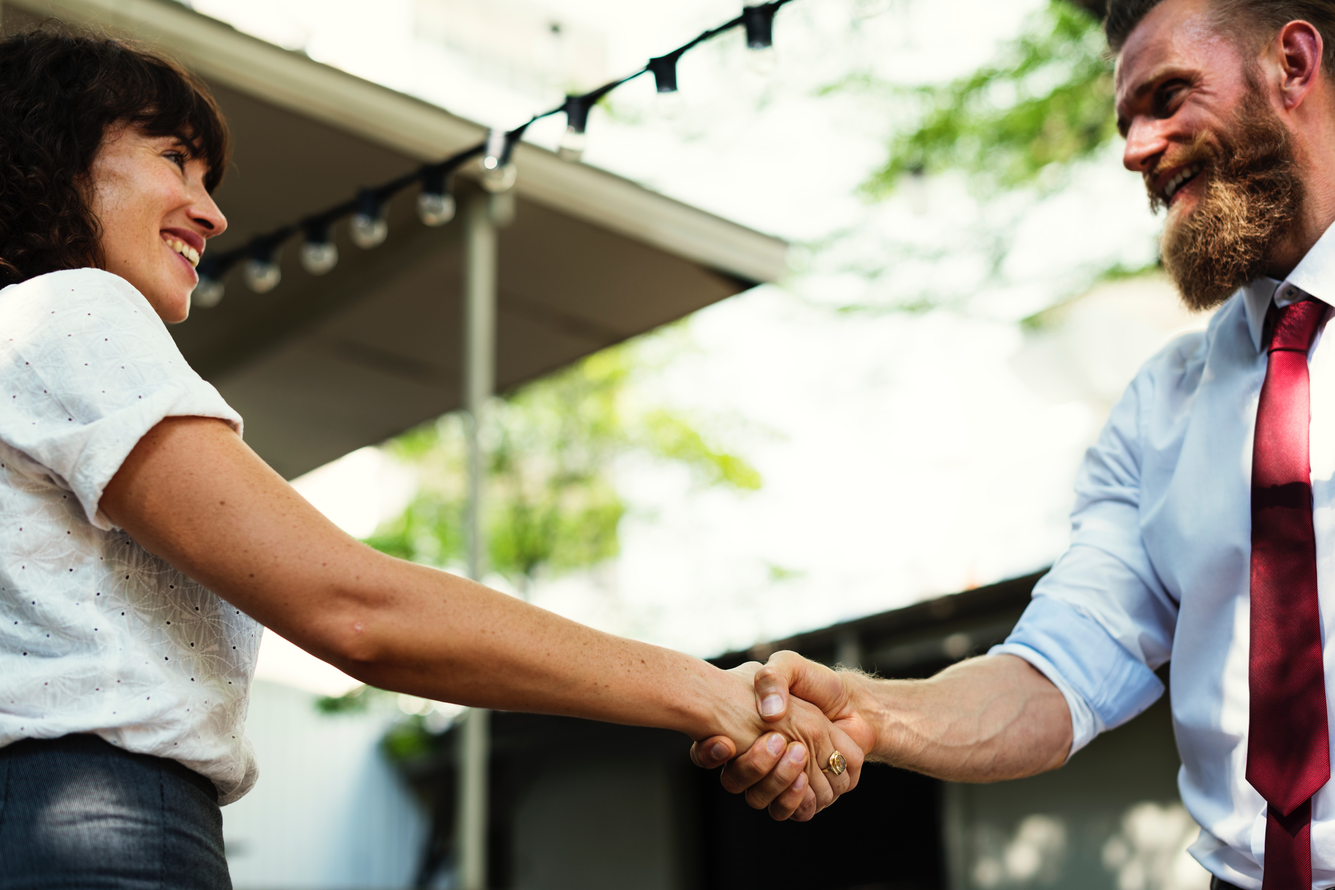
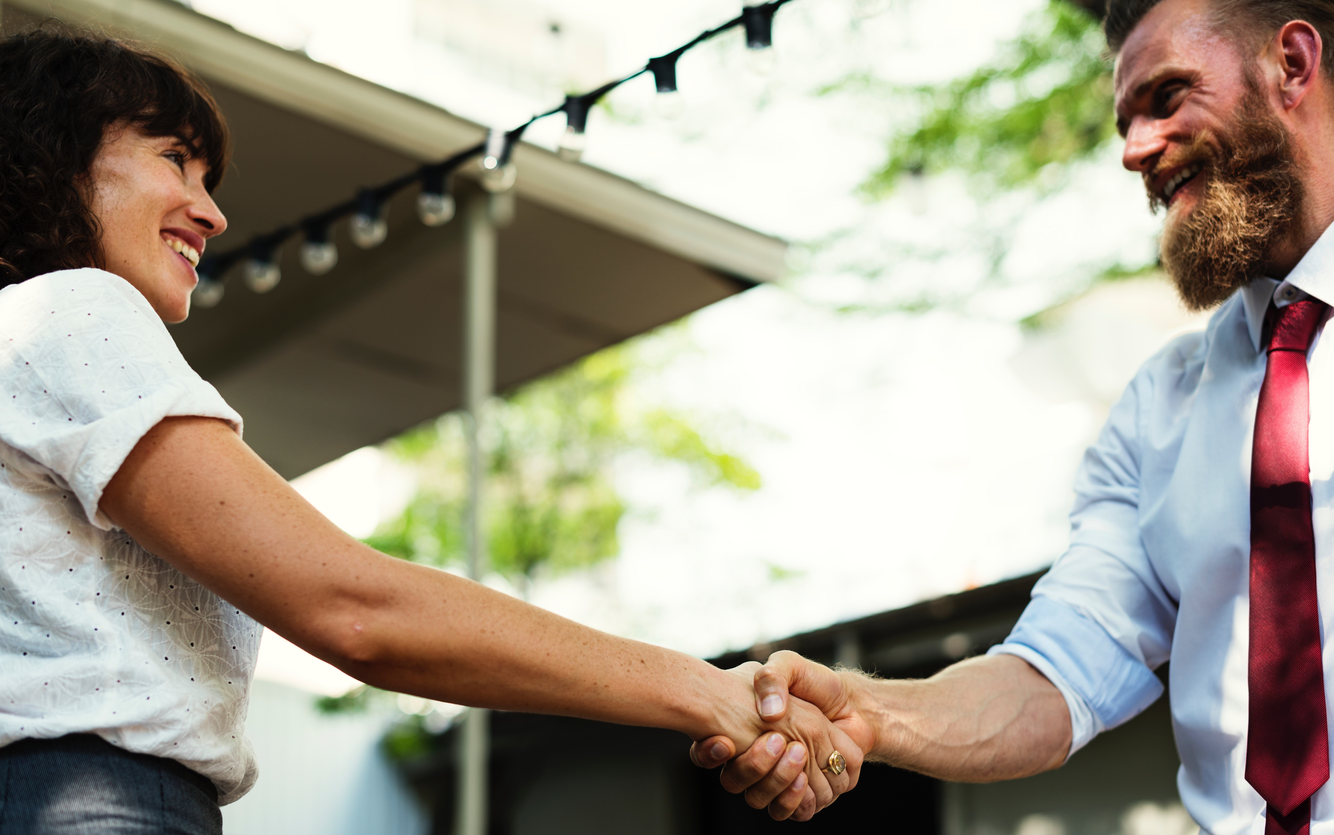
Images

diff --git a/index.html b/index.html
@@ -83,7 +83,7 @@
     </ol>
     <div class="carousel-inner">
       <div class="carousel-item active">
-        <img class="d-block w-100 img-fluid" src="assets/c1.jpg" style="min-width: 100%;">
+        <img class="d-block w-100 img-fluid" src="assets/c11.jpg" style="min-width: 100%;object-fit: contain;">
         <div class="container">
           <div class="carousel-caption text-left p-4" style="background-color: rgba(10, 15, 10, 0.5)">
             <h3>Example headline.</h3>
@@ -93,7 +93,7 @@
         </div>
       </div>
       <div class="carousel-item">
-            <img class="d-block w-100 img-fluid" src="assets/c2.jpg" style="min-width: 100%;">
+            <img class="d-block w-100 img-fluid" src="assets/c2.jpg" style="min-width: 100%;object-fit: contain;">
         <div class="container">
           <div class="carousel-caption text-left p-4" style="background-color: rgba(10, 15, 10, 0.5)">
             <h3>Example headline.</h3>
@@ -103,7 +103,7 @@
         </div>
       </div>
       <div class="carousel-item">
-             <img class="d-block w-100 img-fluid" src="assets/c3.jpg" style="min-width: 100%;">
+             <img class="d-block w-100 img-fluid" src="assets/c3.jpg" style="min-width: 100%;object-fit: contain; ">
         <div class="container">
           <div class="carousel-caption text-left p-4" style="background-color: rgba(10, 15, 10, 0.5)">
             <h3>Example headline.</h3>
